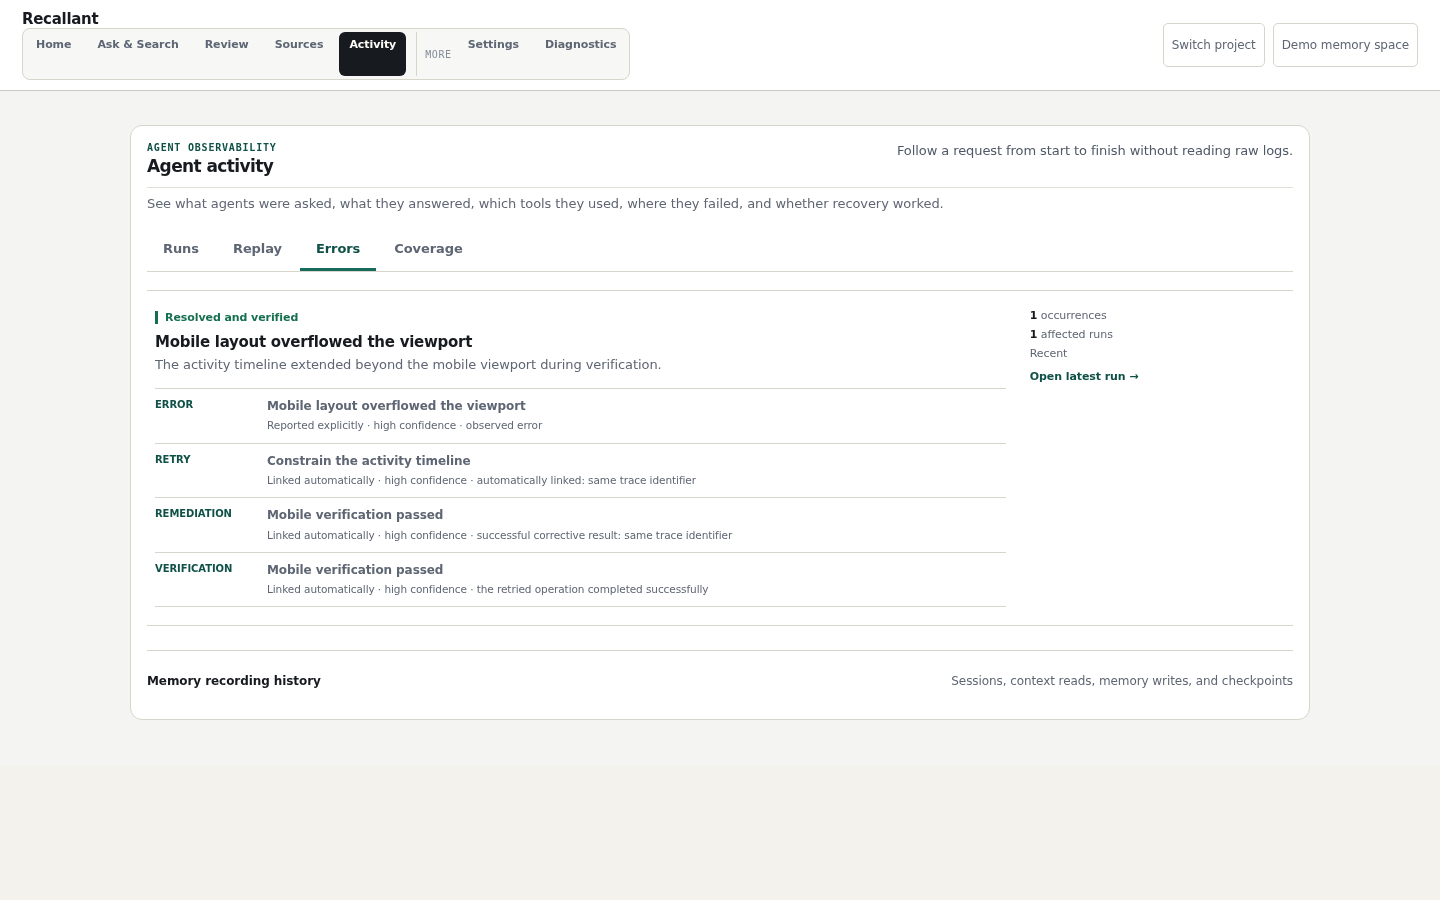
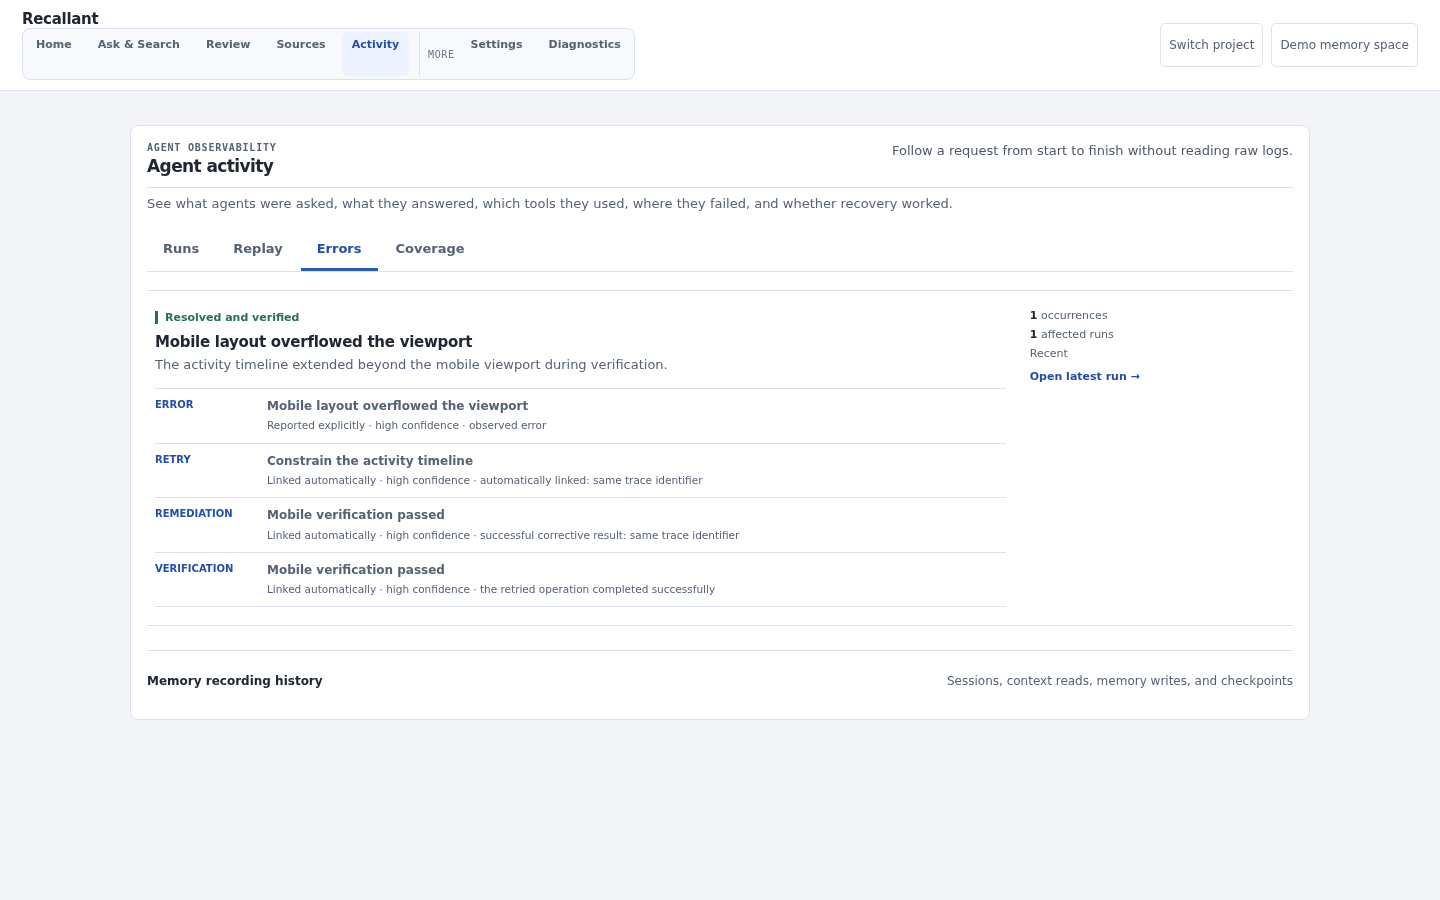
docs: refresh Workbench preview palette (#13)

diff --git a/scripts/portfolio-screenshot-theme.css b/scripts/portfolio-screenshot-theme.css
@@ -1,0 +1,99 @@
+/* Documentation previews only. The application does not load this stylesheet. */
+:root {
+  --bg: #f3f5f8;
+  --bg-subtle: #e9edf3;
+  --surface: #ffffff;
+  --surface-soft: #f7f9fc;
+  --surface-raised: #ffffff;
+  --surface-inset: #edf1f6;
+  --text: #202733;
+  --text-muted: #566274;
+  --text-faint: #687589;
+  --line: #dce2eb;
+  --line-strong: #b7c2d2;
+  --accent: #2859bd;
+  --accent-strong: #224eaa;
+  --accent-soft: #edf3ff;
+  --info: #2859bd;
+  --success: #27724f;
+  --warning: #95620c;
+  --danger: #b23b3b;
+  --neutral: #687589;
+  --radius: 8px;
+  --radius-sm: 6px;
+}
+
+body {
+  background: var(--bg) !important;
+  color: var(--text);
+  letter-spacing: 0;
+}
+
+body > header {
+  border-bottom: 1px solid var(--line);
+}
+
+.workbench-nav {
+  background: var(--surface-soft) !important;
+  border-color: var(--line);
+}
+
+.workbench-nav a.active {
+  background: var(--accent-soft) !important;
+  color: var(--accent-strong) !important;
+}
+
+.home-hero {
+  border-color: var(--line);
+}
+
+.home-hero-copy h2 {
+  font-size: 36px;
+  line-height: 1.15;
+  letter-spacing: -0.035em;
+  font-weight: 700;
+}
+
+.home-hero-copy .home-project-name {
+  color: var(--text-muted);
+  font-weight: 600;
+}
+
+.section-kicker {
+  color: var(--text-muted);
+  letter-spacing: 0.08em;
+}
+
+.home-action.primary-action {
+  color: #ffffff;
+}
+
+.home-action.primary-action span {
+  color: #ffffff;
+}
+
+.signal-strip span {
+  background: var(--surface-soft);
+  border-color: var(--line);
+}
+
+.section-head {
+  border-color: var(--line);
+}
+
+.review-guide {
+  border-color: var(--line);
+}
+
+.review-guide span,
+.readiness .summary-grid strong {
+  color: var(--text-muted);
+}
+
+.readiness .summary-grid > span {
+  border-color: var(--line);
+}
+
+a:hover {
+  color: var(--accent-strong);
+}

diff --git a/docs/assets/workbench/README.md b/docs/assets/workbench/README.md
@@ -4,6 +4,15 @@ The three PNG files in this directory come from the real Recallant Workbench and
 public-safe fixture in `scripts/smoke-review-ui-playwright.mjs`. They do not use a private Recallant
 service, private project data, or manual image editing.
 
+For these documentation previews, the generator temporarily applies
+`scripts/portfolio-screenshot-theme.css`: cool neutral surfaces, graphite text, and a restrained
+blue action accent. Status colors retain their meaning. This is a presentation study, not a claim
+that the installed application uses this theme.
+
+The stylesheet is loaded only while each portfolio image is captured and removed immediately
+afterward. It is not imported by the application. The capture checks that visible content stays
+unchanged; the existing browser fixture continues to check the real controls and workflows.
+
 From a clean checkout:
 
 ```bash

diff --git a/README.md b/README.md
@@ -26,6 +26,8 @@ These screenshots come from the real private Workbench with deterministic synthe
 [generator](docs/assets/workbench/README.md) runs the same browser fixture used for Playwright
 acceptance testing.
 
+These previews use a documentation-only palette; the installed application's theme may differ.
+
 **Home shows whether capture and the governed memory loop are actually active.**
 
 ![Recallant Workbench Home with project readiness and next actions](docs/assets/workbench/home-readiness.png)
